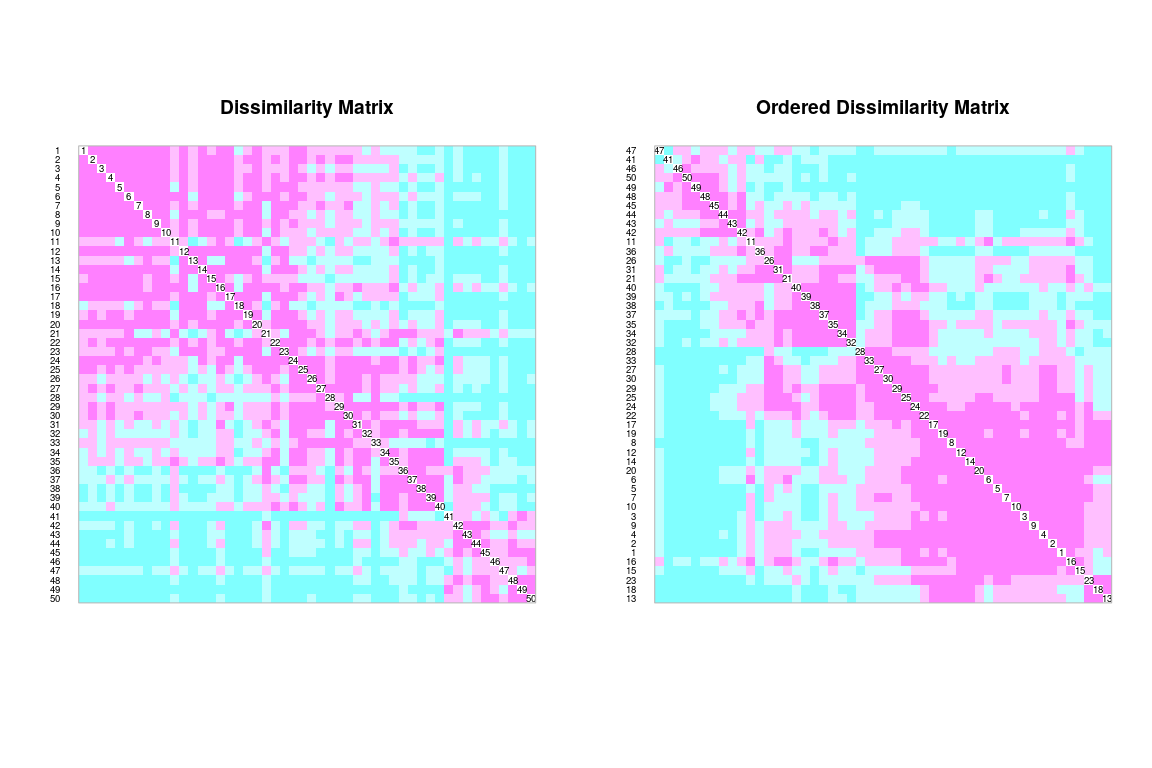
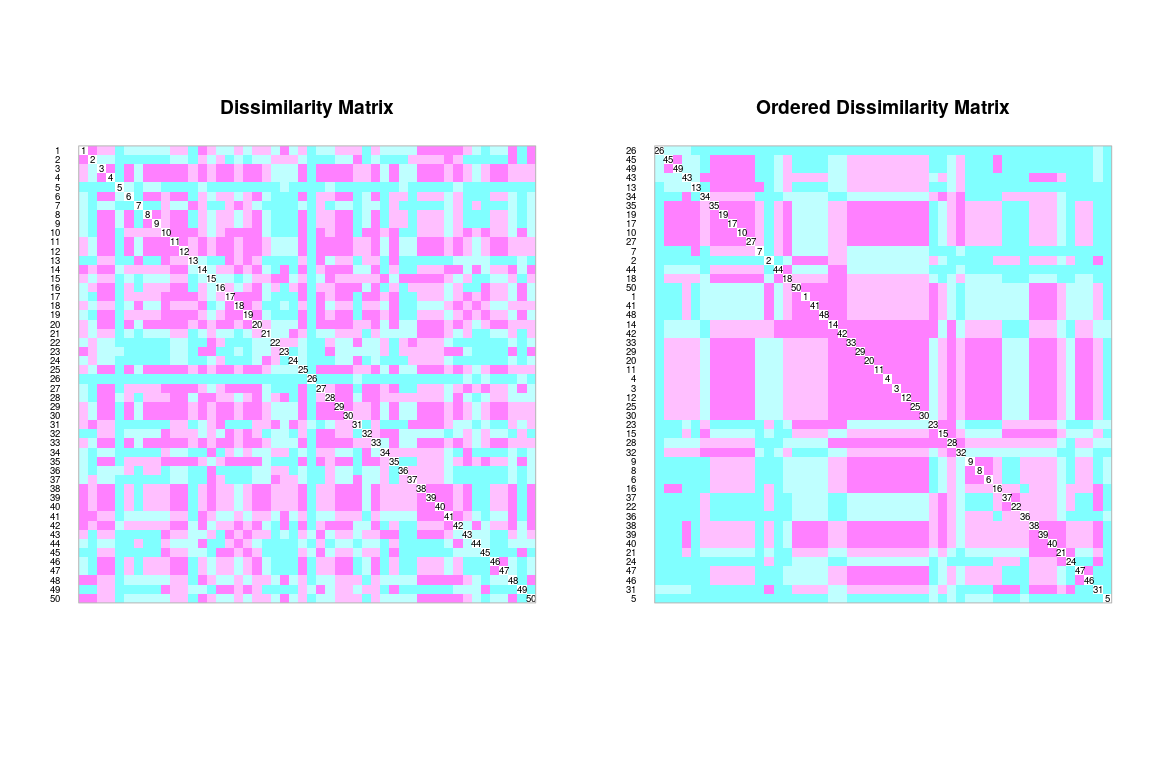
coldissgg corrected

diff --git a/medicion_asociacion_2_modo_Q_mi_familia.md b/medicion_asociacion_2_modo_Q_mi_familia.md
@@ -58,14 +58,14 @@ library(broom)
 library(tidyverse)
 ```
 
-    ## ── Attaching packages ──────────────────────────────── tidyverse 1.2.1 ──
+    ## ── Attaching packages ───────────────────────────────────── tidyverse 1.2.1 ──
 
     ## ✓ ggplot2 3.3.2     ✓ purrr   0.3.4
     ## ✓ tibble  3.0.3     ✓ dplyr   0.8.3
     ## ✓ tidyr   1.0.0     ✓ stringr 1.4.0
     ## ✓ readr   1.3.1     ✓ forcats 0.4.0
 
-    ## ── Conflicts ─────────────────────────────────── tidyverse_conflicts() ──
+    ## ── Conflicts ──────────────────────────────────────── tidyverse_conflicts() ──
     ## x dplyr::filter() masks stats::filter()
     ## x dplyr::lag()    masks stats::lag()
 
@@ -133,6 +133,34 @@ coldiss(mi_fam_d_hel, diag = T)
 ```
 
 ![](medicion_asociacion_2_modo_Q_mi_familia_files/figure-gfm/unnamed-chunk-5-1.png)<!-- -->
+
+Mejorable el gráfico, quizá este es más explícito:
+
+``` r
+coldissgg(mi_fam_d_hel, ordered = T, nc = 4, fsz = 0)
+```
+
+    ## Loading required package: reshape2
+
+    ## 
+    ## Attaching package: 'reshape2'
+
+    ## The following object is masked from 'package:tidyr':
+    ## 
+    ##     smiths
+
+    ## Loading required package: RColorBrewer
+
+![](medicion_asociacion_2_modo_Q_mi_familia_files/figure-gfm/unnamed-chunk-6-1.png)<!-- -->
+
+Con valores de distancia sobreimpresos (se empastan un
+poco)
+
+``` r
+coldissgg(mi_fam_d_hel, ordered = T, nc = 4, fsz = 1.5)
+```
+
+![](medicion_asociacion_2_modo_Q_mi_familia_files/figure-gfm/unnamed-chunk-7-1.png)<!-- -->
 
 Puedes guardar el gráfico usando el botón `Export` de la pestaña `Plots`
 
@@ -236,7 +264,7 @@ similares.
 coldiss(mi_fam_jac, diag = T)
 ```
 
-![](medicion_asociacion_2_modo_Q_mi_familia_files/figure-gfm/unnamed-chunk-8-1.png)<!-- -->
+![](medicion_asociacion_2_modo_Q_mi_familia_files/figure-gfm/unnamed-chunk-10-1.png)<!-- -->
 
 La distancia de Jaccard (**D<sub>J</sub>**) se puede expresar como “la
 proporción de especies no compartidas”. En este caso, para la
@@ -361,7 +389,7 @@ mi_fam_sor %>% tidy
 coldiss(mi_fam_sor, diag = T)
 ```
 
-![](medicion_asociacion_2_modo_Q_mi_familia_files/figure-gfm/unnamed-chunk-13-1.png)<!-- -->
+![](medicion_asociacion_2_modo_Q_mi_familia_files/figure-gfm/unnamed-chunk-15-1.png)<!-- -->
 
 ### Modo Q para datos cuantitativos, NO de abundancia de especies (variables ambientales)
 
@@ -400,7 +428,7 @@ env_suelo_punt_z_d %>% tidy
 coldiss(env_suelo_punt_z_d, diag = T)
 ```
 
-![](medicion_asociacion_2_modo_Q_mi_familia_files/figure-gfm/unnamed-chunk-14-1.png)<!-- -->
+![](medicion_asociacion_2_modo_Q_mi_familia_files/figure-gfm/unnamed-chunk-16-1.png)<!-- -->
 
 ### Modo Q para datos cualitativos y cuantitativos (mixtos), NO de abundancia de especies (variables ambientales)
 
@@ -448,4 +476,4 @@ env_mix_d %>% as.dist %>% tidy
 env_mix_d %>% coldiss(diag = T)
 ```
 
-![](medicion_asociacion_2_modo_Q_mi_familia_files/figure-gfm/unnamed-chunk-15-1.png)<!-- -->
+![](medicion_asociacion_2_modo_Q_mi_familia_files/figure-gfm/unnamed-chunk-17-1.png)<!-- -->
